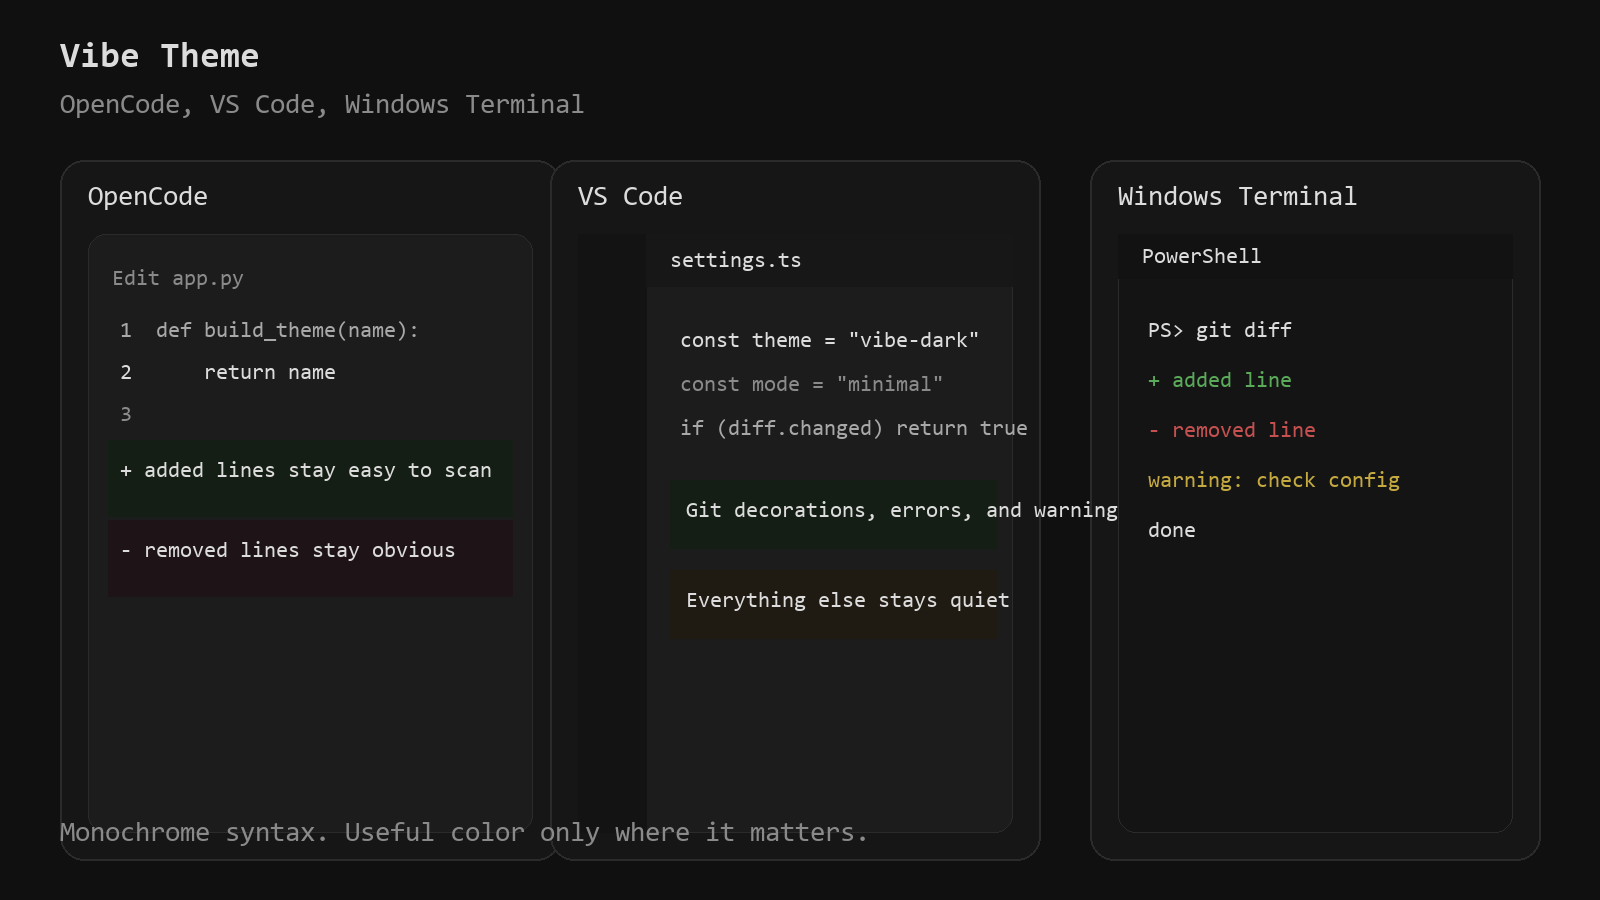
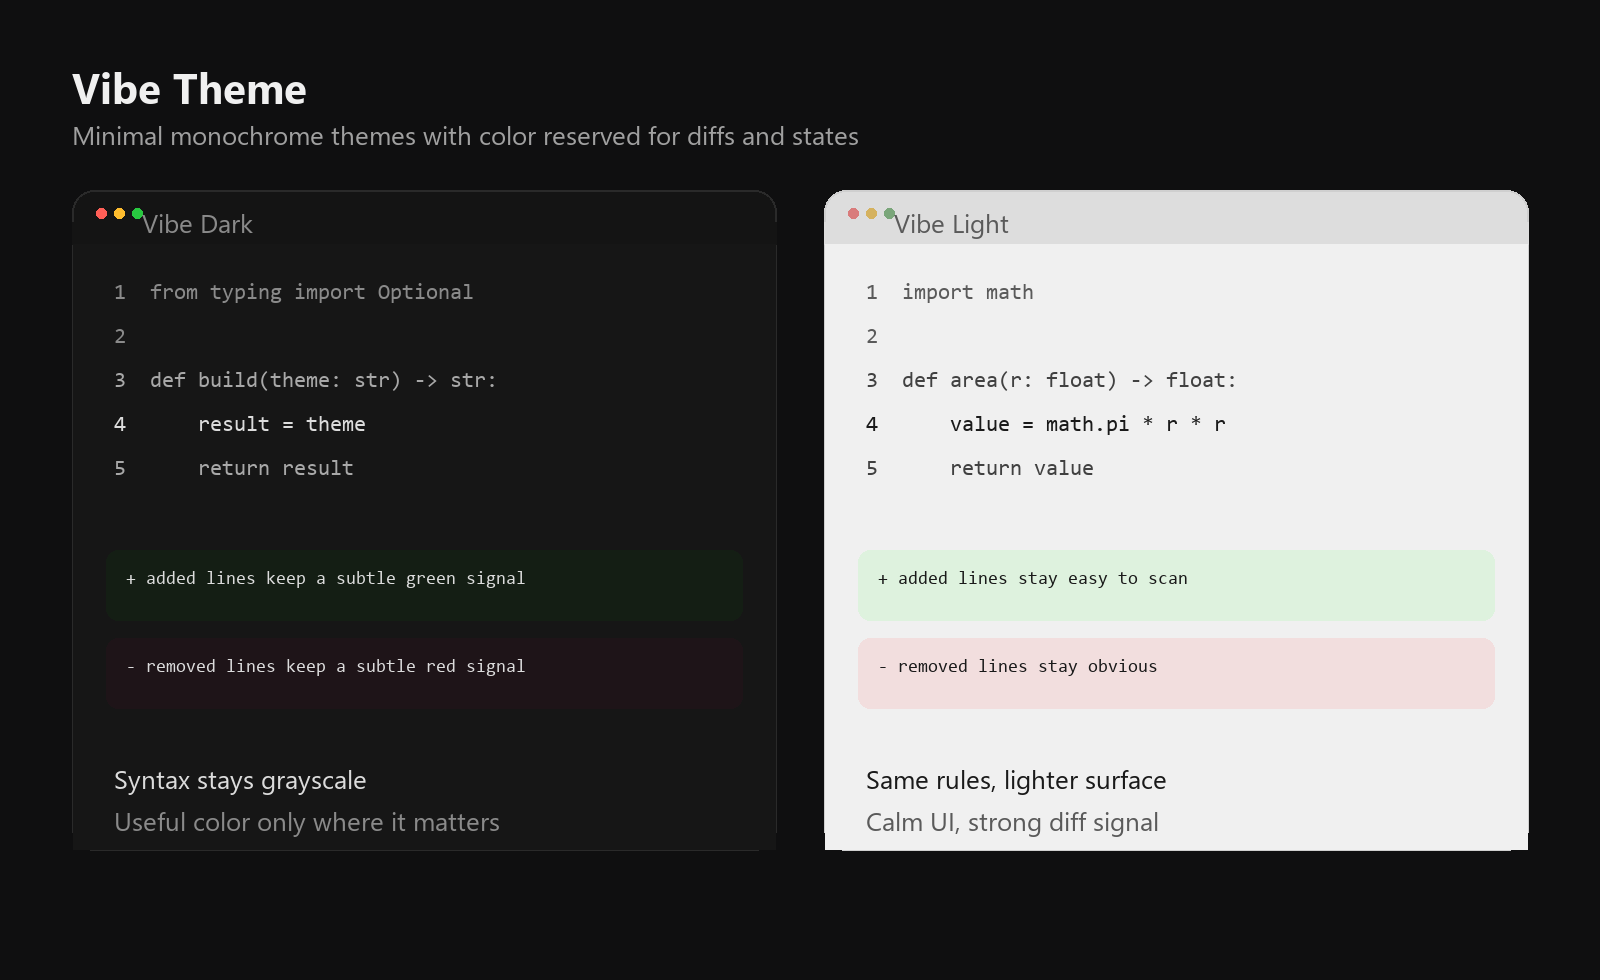
Simplify README, improve previews, and reduce VS Code highlight noise

diff --git a/README.md b/README.md
@@ -8,14 +8,6 @@ Minimal monochrome themes for OpenCode, VS Code, and Windows Terminal.
 - Diffs, errors, warnings, and git states keep color
 - Includes dark and light variants
 
-## Supported Apps
-
-| App | Status | Setup |
-| --- | --- | --- |
-| OpenCode | Supported | [docs/opencode.md](docs/opencode.md) |
-| VS Code | Supported | [docs/vscode.md](docs/vscode.md) |
-| Windows Terminal | Supported | [docs/windows-terminal.md](docs/windows-terminal.md) |
-
 ## Install
 
 ### OpenCode
@@ -52,11 +44,11 @@ code --install-extension vibe-theme-1.0.0.vsix
 
 Then open the theme picker and choose `Vibe Dark` or `Vibe Light`.
 
-## Preview
+More setup details:
 
-![Vibe Dark](assets/vibe-dark-preview.png)
-
-![Vibe Light](assets/vibe-light-preview.png)
+- [OpenCode](docs/opencode.md)
+- [VS Code](docs/vscode.md)
+- [Windows Terminal](docs/windows-terminal.md)
 
 ## Prompt For Your AI
 
